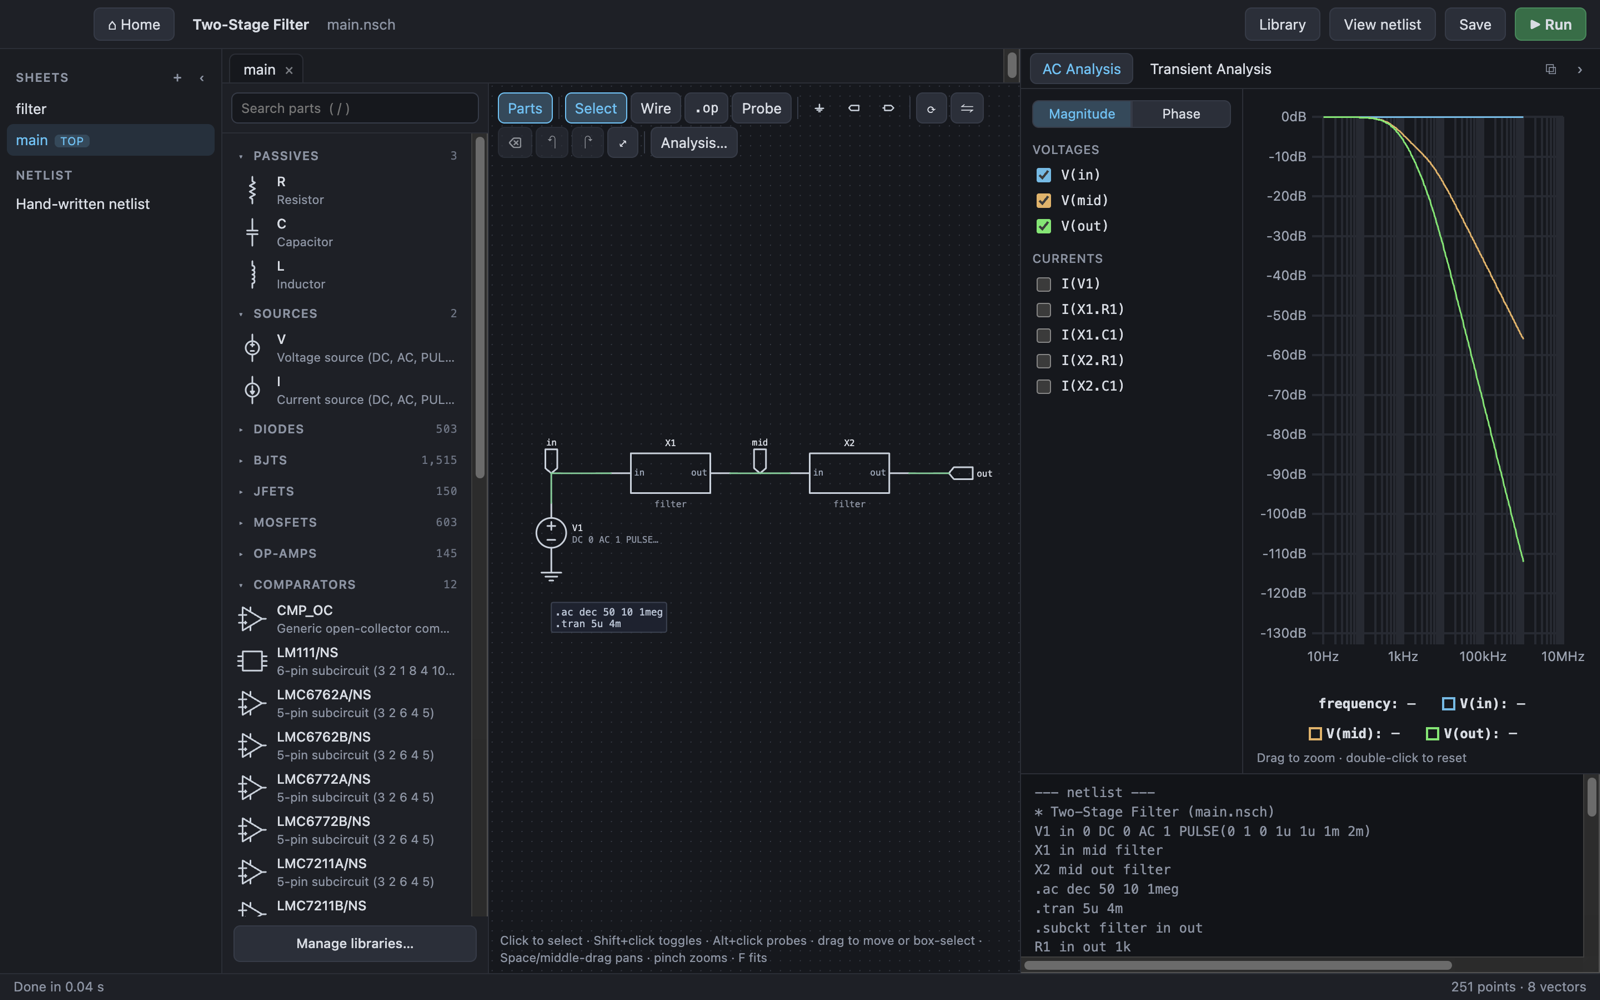
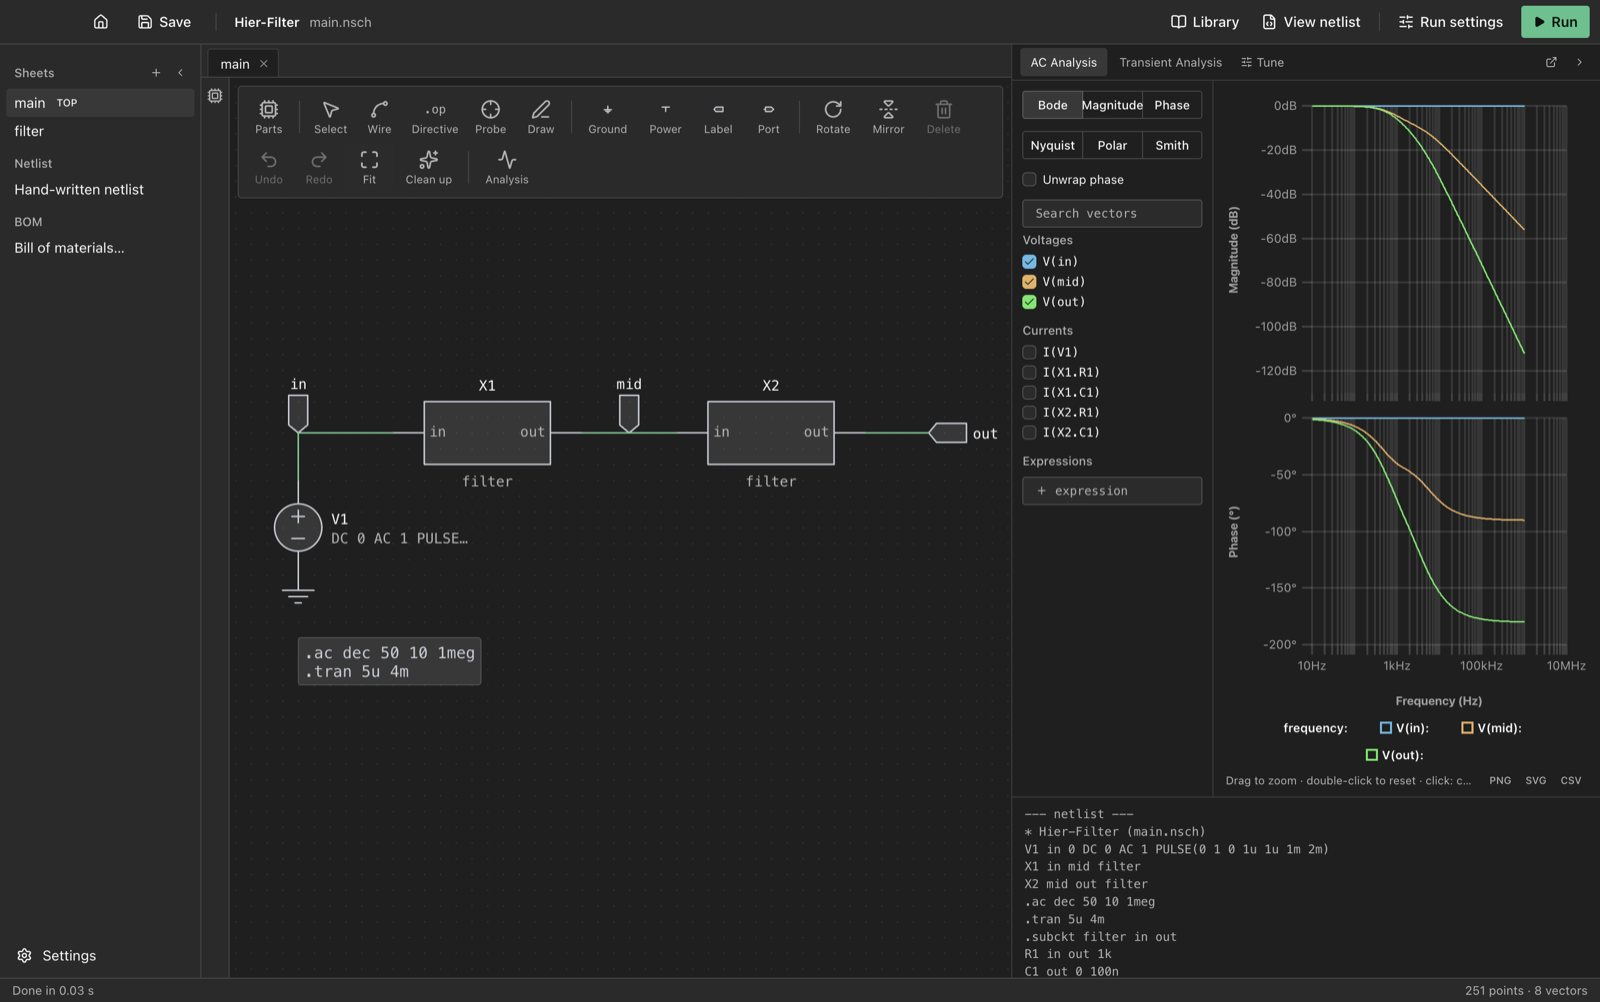
README: retake the screenshots in the current theme; built-in part count 85

diff --git a/README.md b/README.md
@@ -163,7 +163,7 @@ Every part in the app simulates in ngspice. Packs can be switched on and off in 
 
 | Library | Parts | What's in it | Licence |
 |---|---:|---|---|
-| **Spice Studio parts** (built in) | 63 | Common diodes, Zeners, LEDs, BJTs, JFETs, MOSFETs, op-amp macromodels, a comparator, a TL431 and a 7805. Self-written from datasheet figures; each is tested against those figures. | Part of this repository |
+| **Spice Studio parts** (built in) | 85 | Common diodes, Zeners, LEDs, BJTs, JFETs, MOSFETs, op-amp macromodels, a comparator, a TL431 and a 7805. Self-written from datasheet figures; each is tested against those figures. | Part of this repository |
 | **Qucs-S community parts** | 2,309 | Diodes, BJTs, JFETs, MOSFETs, op-amps, references, regulators, optocouplers and a 555. Converted from [Qucs-S](https://github.com/ra3xdh/qucs_s) at a pinned commit; parts carrying vendor notices are excluded. | GPL-2.0-or-later |
 | **Zetex discretes** (Diodes Inc.) | 437 | BJTs, diodes, MOSFETs and references, shipped byte-identical with the vendor's notice. | Zetex model notice |
 | **National Semiconductor op-amps** | 134 | Op-amp and comparator macromodels, shipped byte-identical with the vendor's notice. | National notice (no resale) |
